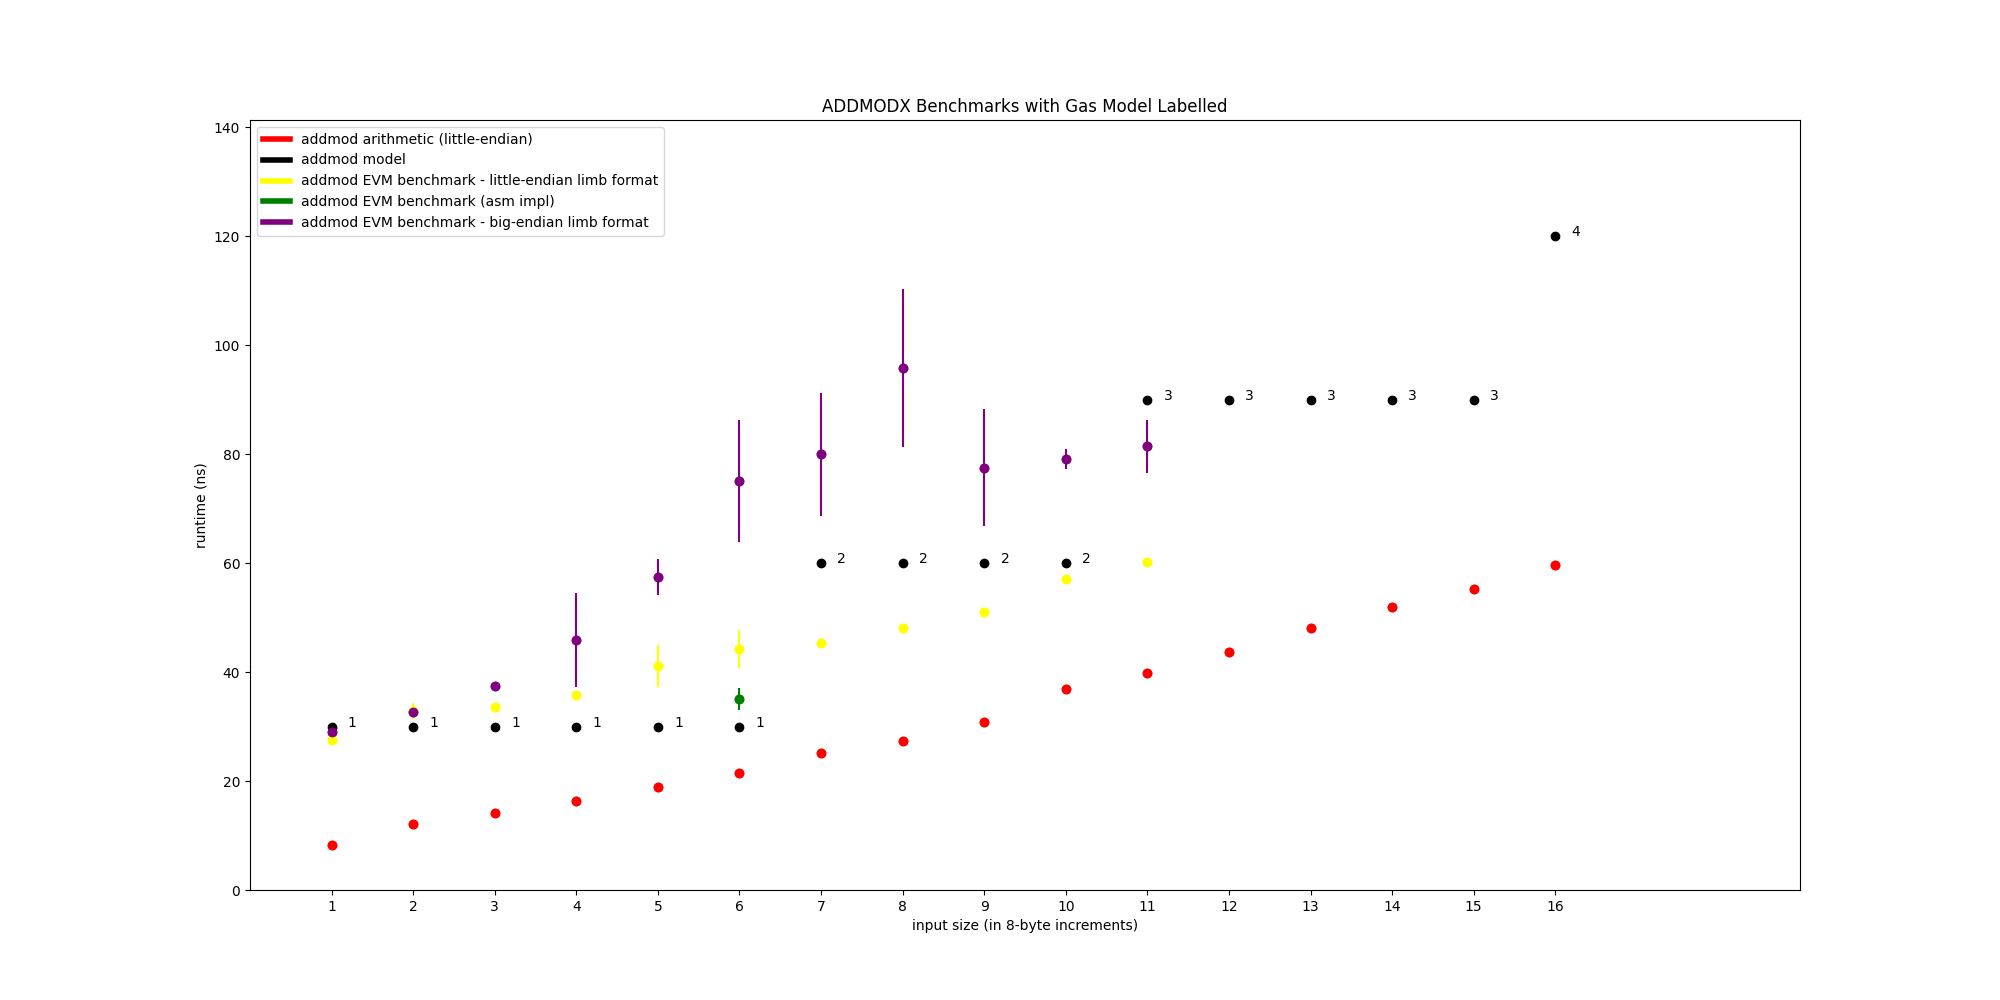
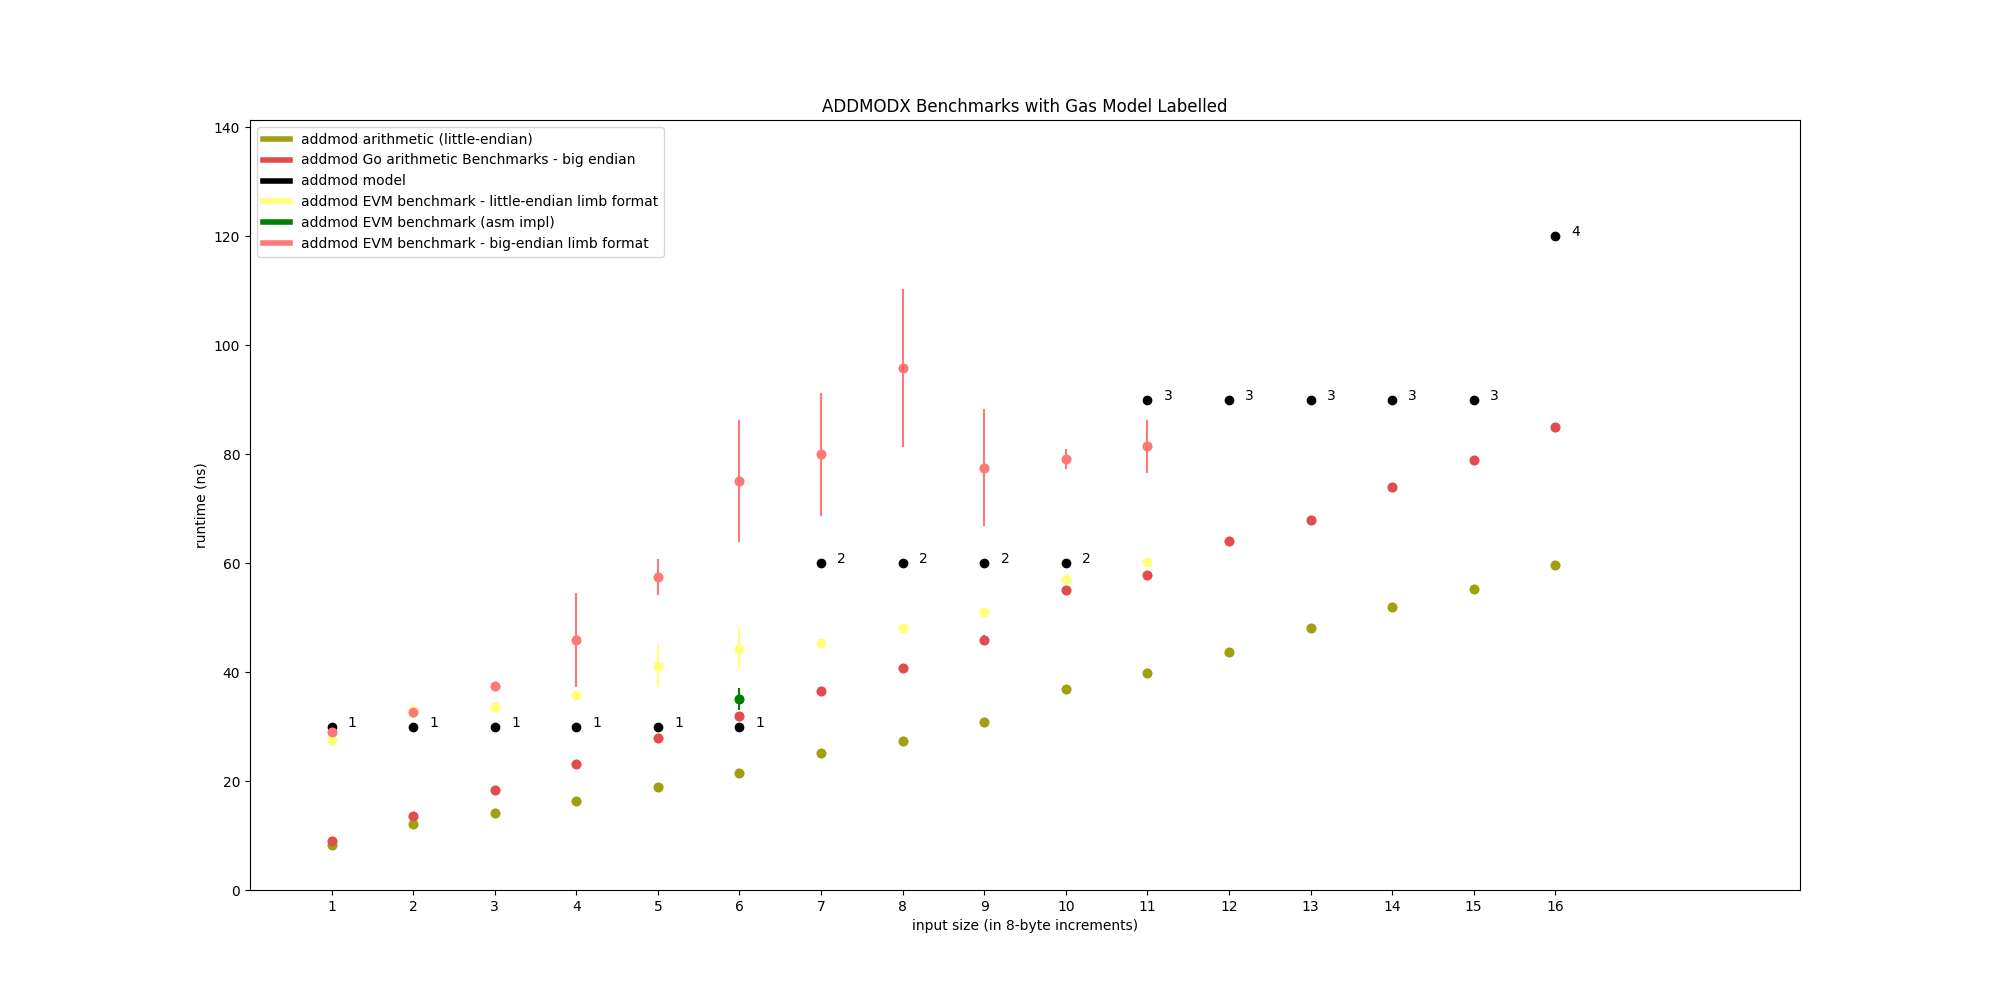
wip

Changed region(s): [[0.124, 0.124, 0.341, 0.248]]

diff --git a/plot.py b/plot.py
@@ -15,6 +15,13 @@ from matplotlib.pyplot import figure
 # 30 ns / gas
 GAS_RATE = 30.0
 
+evm_be_color = "#ff7878"
+go_arith_be_color = "#E24C4C"
+evm_le_color = "#ffff78"
+go_arith_le_color = "#a0a011"
+model_color = "black"
+asm384_color = "green"
+
 def group_data(lines: [str]) -> [str]:
     result = {}
 
@@ -113,6 +120,7 @@ evm_le_asm_384bit_benchmarks = read_evm_arith_benchmarks("benchmarks-results/ben
 evm_be_benchmarks = read_evm_arith_benchmarks("benchmarks-results/evm-be.csv")
 
 go_arith_benchmarks = read_go_arith_benchmarks("benchmarks-results/go-arith-benchmarks.txt")
+go_arith_benchmarks_be = read_go_arith_benchmarks("benchmarks-results/go-arith-benchmarks-be.txt")
 
 def format_bench_data_for_graphing(x_range, bench_data, label, color):
     x_vals = []
@@ -378,26 +386,29 @@ mulmont_eqn_low = [0.092, -0.01, 0.24]
 mulmont_eqn_hi = [0.0004, 9.88, -268.0]
 addmod_eqn = [0.22, 0.144]
 
-import pdb; pdb.set_trace()
-mulmont_evm_le = prep_data_for_graphing(evm_le_benchmarks['mulmont']['non-unrolled'], "mulmont EVM benchmark - little-endian limb format", "yellow")
-mulmont_evm_be = prep_data_for_graphing(evm_be_benchmarks['mulmont']['non-unrolled'], "mulmont EVM benchmark - big-endian limb format", "purple")
-mulmont_evm_le_asm_384bit = prep_data_for_graphing(evm_le_asm_384bit_benchmarks['mulmont']['non-unrolled'], "mulmont EVM benchmark (asm impl)", "green")
+mulmont_go_arith_be = prep_data_for_graphing(go_arith_benchmarks_be['mulmont']['non-unrolled'], "mulmont Go arithmetic Benchmarks - big endian", go_arith_be_color)
+addmod_go_arith_be = prep_data_for_graphing(go_arith_benchmarks_be['addmod']['non-unrolled'], "addmod Go arithmetic Benchmarks - big endian", go_arith_be_color)
+submod_go_arith_be = prep_data_for_graphing(go_arith_benchmarks_be['submod']['non-unrolled'], "submod Go arithmetic Benchmarks - big endian", go_arith_be_color)
 
-addmod_evm_le = prep_data_for_graphing(evm_le_benchmarks['addmod']['non-unrolled'], "addmod EVM benchmark - little-endian limb format", "yellow")
-addmod_evm_be = prep_data_for_graphing(evm_be_benchmarks['addmod']['non-unrolled'], "addmod EVM benchmark - big-endian limb format", "purple")
-addmod_evm_le_asm_384bit = prep_data_for_graphing(evm_le_asm_384bit_benchmarks['addmod']['non-unrolled'], "addmod EVM benchmark (asm impl)", "green")
+mulmont_evm_le = prep_data_for_graphing(evm_le_benchmarks['mulmont']['non-unrolled'], "mulmont EVM benchmark - little-endian limb format", evm_le_color)
+mulmont_evm_be = prep_data_for_graphing(evm_be_benchmarks['mulmont']['non-unrolled'], "mulmont EVM benchmark - big-endian limb format", evm_be_color)
+mulmont_evm_le_asm_384bit = prep_data_for_graphing(evm_le_asm_384bit_benchmarks['mulmont']['non-unrolled'], "mulmont EVM benchmark (asm impl)", asm384_color)
 
-submod_evm_le = prep_data_for_graphing(evm_le_benchmarks['submod']['non-unrolled'], "submod EVM benchmark - little-endian limb format", "yellow")
-submod_evm_be = prep_data_for_graphing(evm_be_benchmarks['submod']['non-unrolled'], "submod EVM benchmark - big-endian limb format", "purple")
-submod_evm_le_asm_384bit = prep_data_for_graphing(evm_le_asm_384bit_benchmarks['submod']['non-unrolled'], "submod EVM benchmark (asm impl)", "green")
+addmod_evm_le = prep_data_for_graphing(evm_le_benchmarks['addmod']['non-unrolled'], "addmod EVM benchmark - little-endian limb format", evm_le_color)
+addmod_evm_be = prep_data_for_graphing(evm_be_benchmarks['addmod']['non-unrolled'], "addmod EVM benchmark - big-endian limb format", evm_be_color)
+addmod_evm_le_asm_384bit = prep_data_for_graphing(evm_le_asm_384bit_benchmarks['addmod']['non-unrolled'], "addmod EVM benchmark (asm impl)", asm384_color)
+
+submod_evm_le = prep_data_for_graphing(evm_le_benchmarks['submod']['non-unrolled'], "submod EVM benchmark - little-endian limb format", evm_le_color)
+submod_evm_be = prep_data_for_graphing(evm_be_benchmarks['submod']['non-unrolled'], "submod EVM benchmark - big-endian limb format", evm_be_color)
+submod_evm_le_asm_384bit = prep_data_for_graphing(evm_le_asm_384bit_benchmarks['submod']['non-unrolled'], "submod EVM benchmark (asm impl)", asm384_color)
 
 # fast_mulmont_cutoff = 49
 mulmont_benches = go_arith_benchmarks['mulmont']
-mulmont_non_unrolled_data = format_bench_data_for_graphing((1, 64), go_arith_benchmarks['mulmont']['non-unrolled'], 'mulmont arithmetic', 'red')
+mulmont_non_unrolled_data = format_bench_data_for_graphing((1, 64), go_arith_benchmarks['mulmont']['non-unrolled'], 'mulmont arithmetic', go_arith_le_color)
 mulmont_generic_data = format_bench_data_for_graphing((1, 64), go_arith_benchmarks['mulmont']['generic'], 'mulmont-generic', 'blue')
 
-addmod_non_unrolled_data = format_bench_data_for_graphing((1, 64), go_arith_benchmarks['addmod']['non-unrolled'], 'addmod arithmetic', 'red')
-submod_non_unrolled_data = format_bench_data_for_graphing((1, 64), go_arith_benchmarks['submod']['non-unrolled'], 'submod-non-unrolled', 'red')
+addmod_non_unrolled_data = format_bench_data_for_graphing((1, 64), go_arith_benchmarks['addmod']['non-unrolled'], 'addmod arithmetic', go_arith_le_color)
+submod_non_unrolled_data = format_bench_data_for_graphing((1, 64), go_arith_benchmarks['submod']['non-unrolled'], 'submod-non-unrolled', go_arith_le_color)
 
 addmod_generic_data = format_bench_data_for_graphing((1, 100000), go_arith_benchmarks['addmod']['generic'], 'addmod-generic', 'blue')
 submod_generic_data = format_bench_data_for_graphing((1, 100000), go_arith_benchmarks['submod']['generic'], 'submod-generic', 'green')
@@ -428,23 +439,23 @@ mulmont_evmmax_hi = go_arith_benchmarks['mulmont']['generic']
 benches_xs = list(sorted(set(list(mulmont_evmmax_low.keys()) + list(mulmont_evmmax_hi.keys()))))
 mulmont_model = prep_models_for_graphing([(mulmont_eqn_low, fast_mulmont_cutoff), (mulmont_eqn_hi, 100000)], 'mulmont gas model', benches_xs)
 
-mulmont_evmmax = stitch_data(go_arith_benchmarks['mulmont']['non-unrolled'], go_arith_benchmarks['mulmont']['generic'], fast_mulmont_cutoff, "mulmont arithmetic (little-endian)", "red")
+mulmont_evmmax = stitch_data(go_arith_benchmarks['mulmont']['non-unrolled'], go_arith_benchmarks['mulmont']['generic'], fast_mulmont_cutoff, "mulmont arithmetic (little-endian)", go_arith_le_color)
 #scatterplot_ns_data("charts/mulmontx_all.png", "MULMONTX Benchmarks", (1, 100000), [False, False], ["o", "-"], [mulmont_evmmax, mulmont_model])
 # scatterplot_ns_data("charts/mulmontx_med.png", "MULMONTX Benchmarks", (1, 64), [False, False], ["o", "o"], [mulmont_evmmax, mulmont_model])
-scatterplot_ns_data("charts/mulmontx_low.png", "MULMONTX Benchmarks with Gas Model Labeled", (1, 8), [False, True, False, False, False], ["o", "o", "o", "o", "o"], [mulmont_evmmax, mulmont_model, mulmont_evm_le, mulmont_evm_be, mulmont_evm_le_asm_384bit])
+scatterplot_ns_data("charts/mulmontx_low.png", "MULMONTX Benchmarks with Gas Model Labeled", (1, 8), [False, False, True, False, False, False], ["o", "o", "o", "o", "o", "o"], [mulmont_evmmax, mulmont_go_arith_be, mulmont_model, mulmont_evm_le, mulmont_evm_be, mulmont_evm_le_asm_384bit])
 
 addmod_model = prep_models_for_graphing([(addmod_eqn, 100000)], 'addmod model', benches_xs)
 
 # TODO use mix of impls
 # TODO don't use stitch_data to put it in graphing format
-addmod_evmmax = stitch_data(go_arith_benchmarks['addmod']['generic'], go_arith_benchmarks['addmod']['generic'], 100000, "addmod arithmetic (little-endian)", "red")
-submod_evmmax = stitch_data(go_arith_benchmarks['submod']['generic'], go_arith_benchmarks['submod']['generic'], 100000, "submod arithmetic (little-endian)", "red")
+addmod_evmmax = stitch_data(go_arith_benchmarks['addmod']['generic'], go_arith_benchmarks['addmod']['generic'], 100000, "addmod arithmetic (little-endian)", go_arith_le_color)
+submod_evmmax = stitch_data(go_arith_benchmarks['submod']['generic'], go_arith_benchmarks['submod']['generic'], 100000, "submod arithmetic (little-endian)", go_arith_le_color)
 
-scatterplot_ns_data("charts/addmodx_low.png", "ADDMODX Benchmarks with Gas Model Labelled", (1, 16), [False, True, False, False, False], ["o", 'o', 'o', 'o', 'o'], [addmod_evmmax, addmod_model, addmod_evm_le, addmod_evm_le_asm_384bit, addmod_evm_be])
+scatterplot_ns_data("charts/addmodx_low.png", "ADDMODX Benchmarks with Gas Model Labelled", (1, 16), [False, False, True, False, False, False], ["o", "o", 'o', 'o', 'o', 'o'], [addmod_evmmax, addmod_go_arith_be, addmod_model, addmod_evm_le, addmod_evm_le_asm_384bit, addmod_evm_be])
 # scatterplot_ns_data("charts/addmodx_med.png", "ADDMODX Benchmarks", (1, 64), [False, False], ["o", 'o'], [addmod_evmmax, addmod_model])
 # scatterplot_ns_data("charts/addmodx_all.png", "ADDMODX Benchmarks", (1, 100000), [False, False], ["o", '-'], [addmod_evmmax, addmod_model])
 
-scatterplot_ns_data("charts/submodx_low.png", "SUBMODX Benchmarks with Gas Model Labelled", (1, 16), [False, True, False, False, False], ["o", 'o', 'o', 'o', 'o'], [submod_evmmax, addmod_model, submod_evm_le, submod_evm_le_asm_384bit, submod_evm_be])
+scatterplot_ns_data("charts/submodx_low.png", "SUBMODX Benchmarks with Gas Model Labelled", (1, 16), [False, False, True, False, False, False], ["o", 'o', 'o', 'o', 'o', 'o'], [submod_evmmax, submod_go_arith_be, addmod_model, submod_evm_le, submod_evm_le_asm_384bit, submod_evm_be])
 # scatterplot_ns_data("charts/submodx_med.png", "SUBMODX Benchmarks", (1, 64), [False, False], ["o", 'o'], [submod_evmmax, addmod_model])
 # scatterplot_ns_data("charts/submodx_all.png", "SUBMODX Benchmarks", (1, 100000), [False, False], ["o", '-'], [submod_evmmax, addmod_model])
 

diff --git a/format-geth-benchmark-output-as-csv.py b/format-geth-benchmark-output-as-csv.py
@@ -1,9 +1,14 @@
-import sys, math
+import sys, math, re
 
-input_lines = sys.stdin.readlines()
+input_lines = None # sys.stdin.readlines()
+with open("benchmarks-results/go-arith-benchmarks-be.txt", "r") as f:
+    input_lines = f.readlines()
+
 for line in input_lines[4:-2]:
     parts = [s for s in line.split(' ') if s]
-    name = parts[0].split('/')[0][9:]
-    limbs = int(int(parts[0].split('/')[1][:-6]) / 64)
+    name = parts[0].split('/')[1].split('_')[1]
+    limbs = re.sub(r'#.*$', '', parts[0].split('/')[1].split('_')[2])
+    limbs = re.sub(r'-.*$', '', limbs)
+    limbs = int(int(limbs) / 64)
     time = math.ceil(float(parts[-2]))
     print("{},{},{}".format(name,limbs,time))
